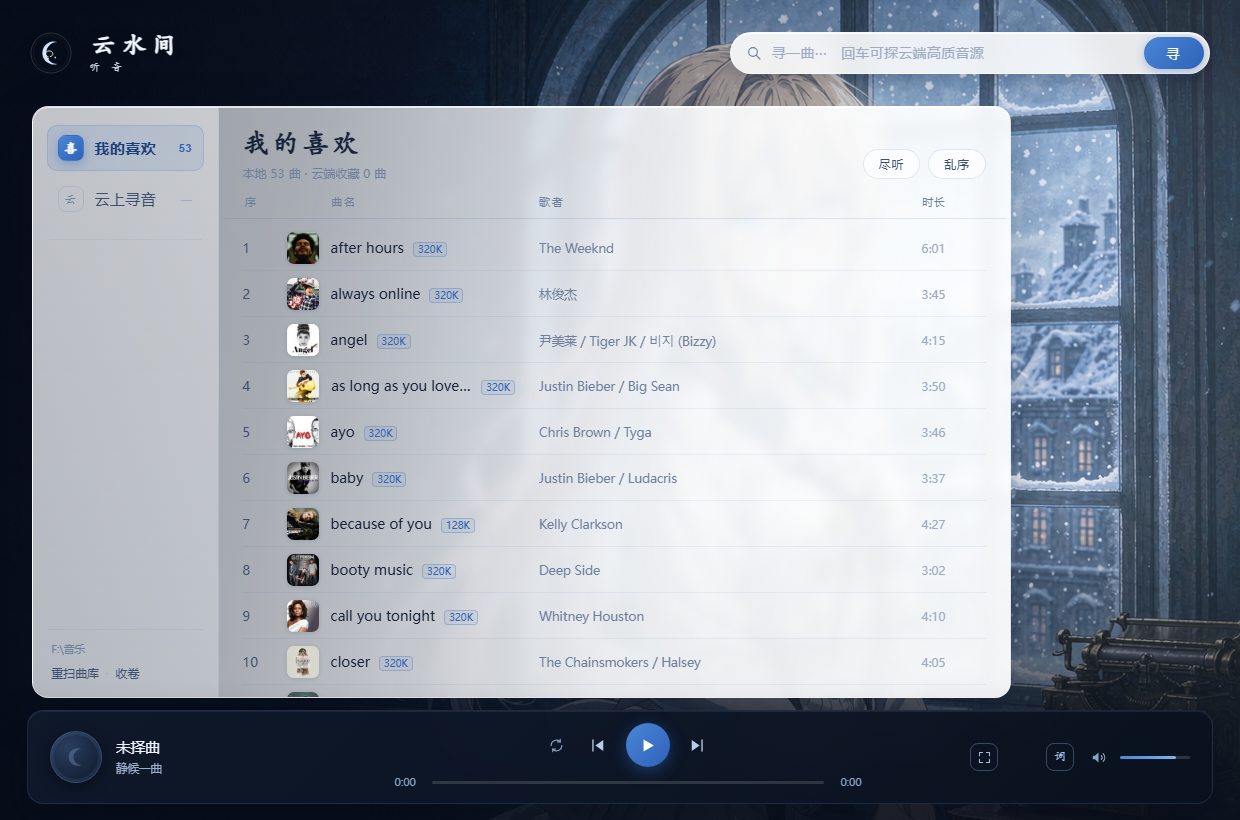
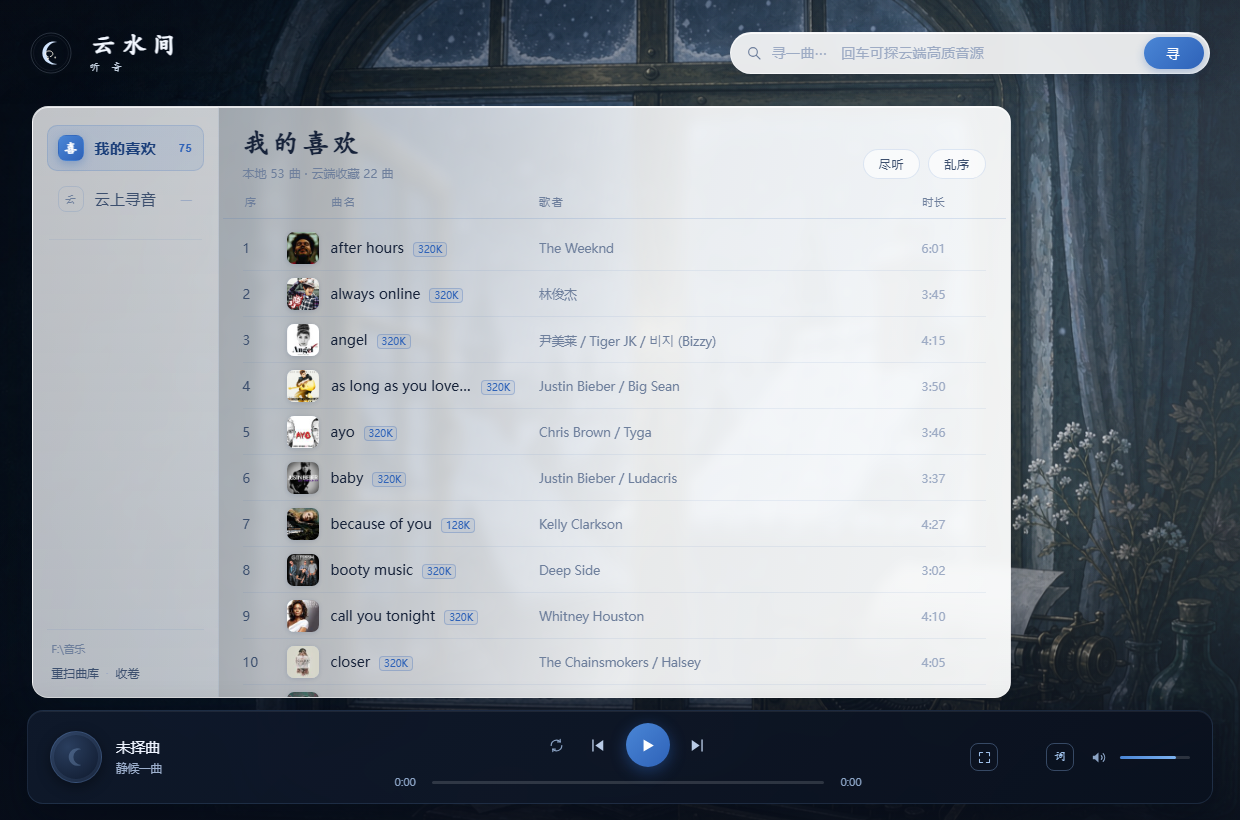
chore: 替换为无人物原创场景壁纸并随仓库分发
- 壁纸改为雪夜拱窗 + 古董打字机（无角色形象，规避版权风险）
- 壁纸入库，clone 后即有完整视觉效果
- README 精简：移除壁纸相关说明，新增「更换壁纸」小节

diff --git a/static/style.css b/static/style.css
@@ -54,10 +54,10 @@ body{
 .wallpaper img{
   width:100%; height:100%;
   object-fit:cover;
-  object-position:86% 14%;
+  object-position:70% 48%;
   /* 放大一点点，把右下角的生成水印裁出可视区 */
   transform:scale(1.16);
-  transform-origin:86% 14%;
+  transform-origin:70% 48%;
   will-change:transform;
 }
 .wp-tint{

diff --git a/README.md b/README.md
@@ -4,8 +4,6 @@
 
 ![界面预览](static/界面预览.png)
 
-<sub>截图为个人使用效果，其中的背景壁纸为 AI 生成示意，仓库不含该图（见 .gitignore）。clone 后默认是深蓝渐变背景，可自行放一张 `static/wallpaper.png`。</sub>
-
 ---
 
 ## 这是什么
@@ -51,6 +49,10 @@ python launch.py
 
 配置保存在 `%APPDATA%\云水间听音\config.json`。
 
+## 更换壁纸
+
+把自己的图片放到 `static/wallpaper.png` 覆盖即可，建议 16:9 横图、1280×720 以上。删掉这张图也能跑，界面会自动换成深蓝渐变底。
+
 ## 快捷键
 
 | 键 | 作用 |
@@ -82,7 +84,6 @@ static/     前端：index.html / style.css / app.js（无框架、无构建）
 
 - **音源来自第三方公开聚合接口**（`music-api.gdstudio.xyz`），非官方 API。接口失效时云端功能不可用，需要更换 `app.py` 里的 `API_BASE`。
 - 本地曲目找词依赖标题匹配，冷门曲目可能无词。
-- 壁纸不入库（见 `.gitignore`），clone 后是深蓝渐变背景，可自行放一张 `static/wallpaper.png`。
 
 ## 免责声明
 
